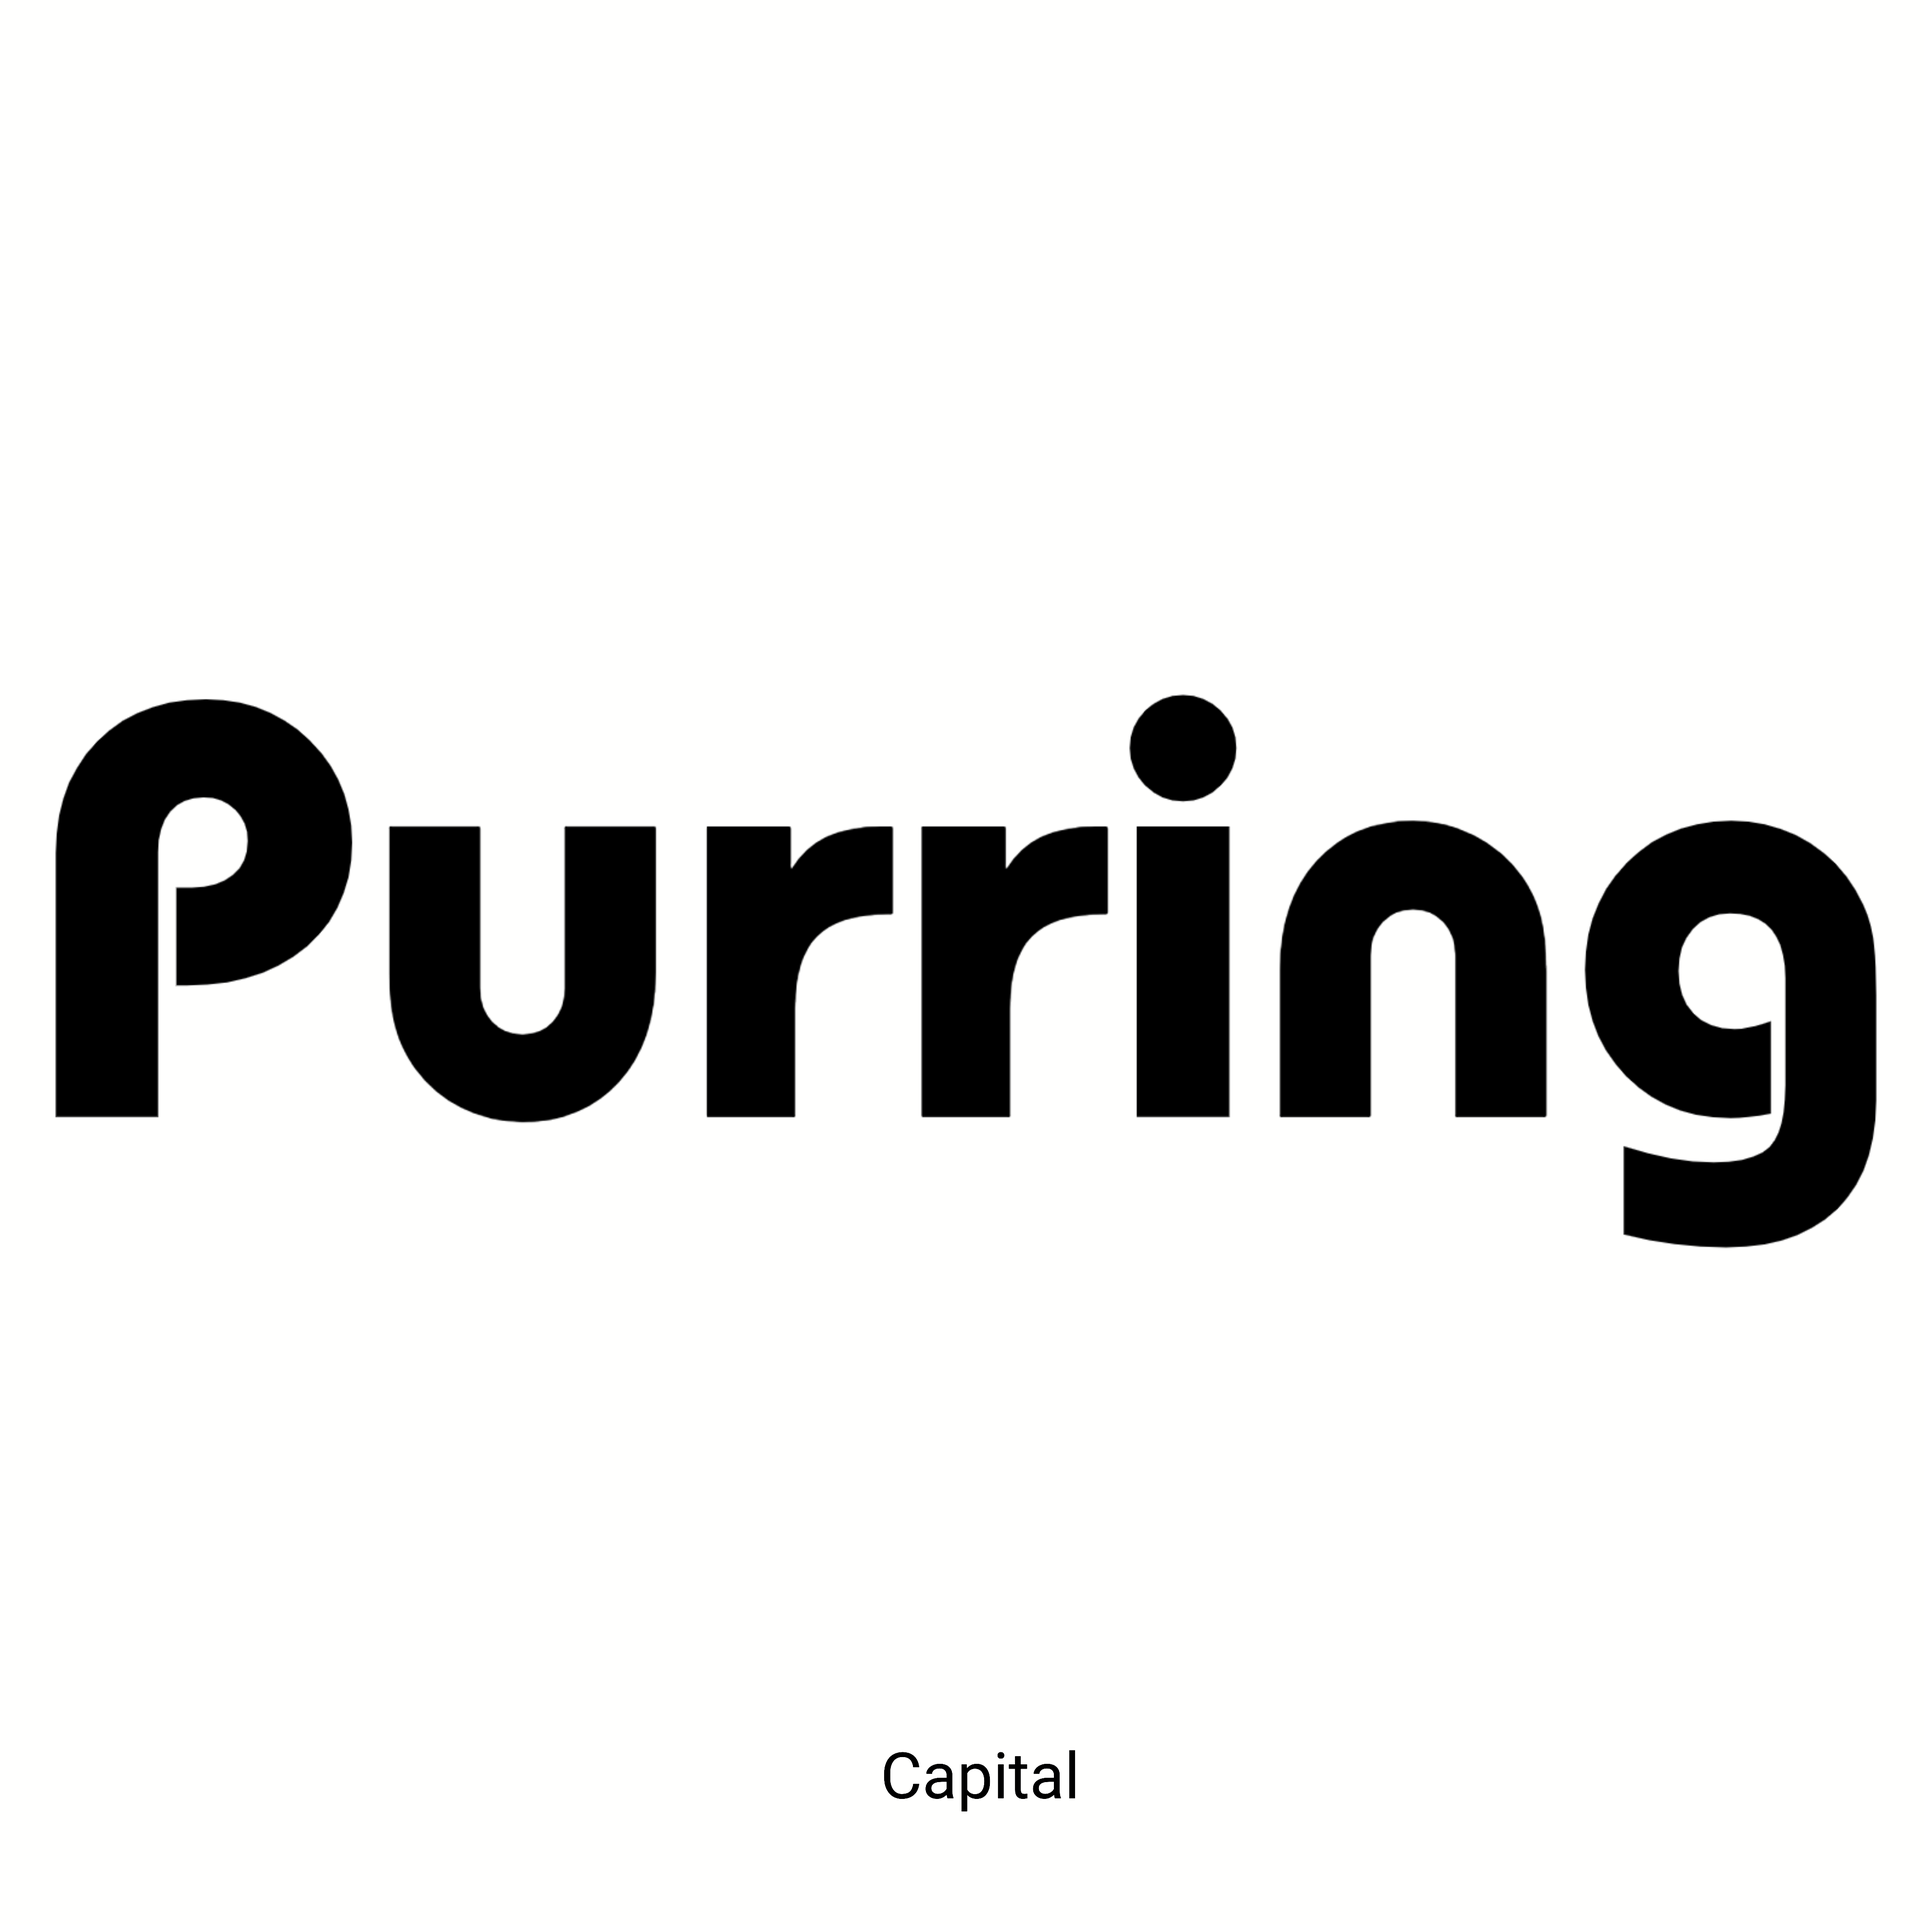
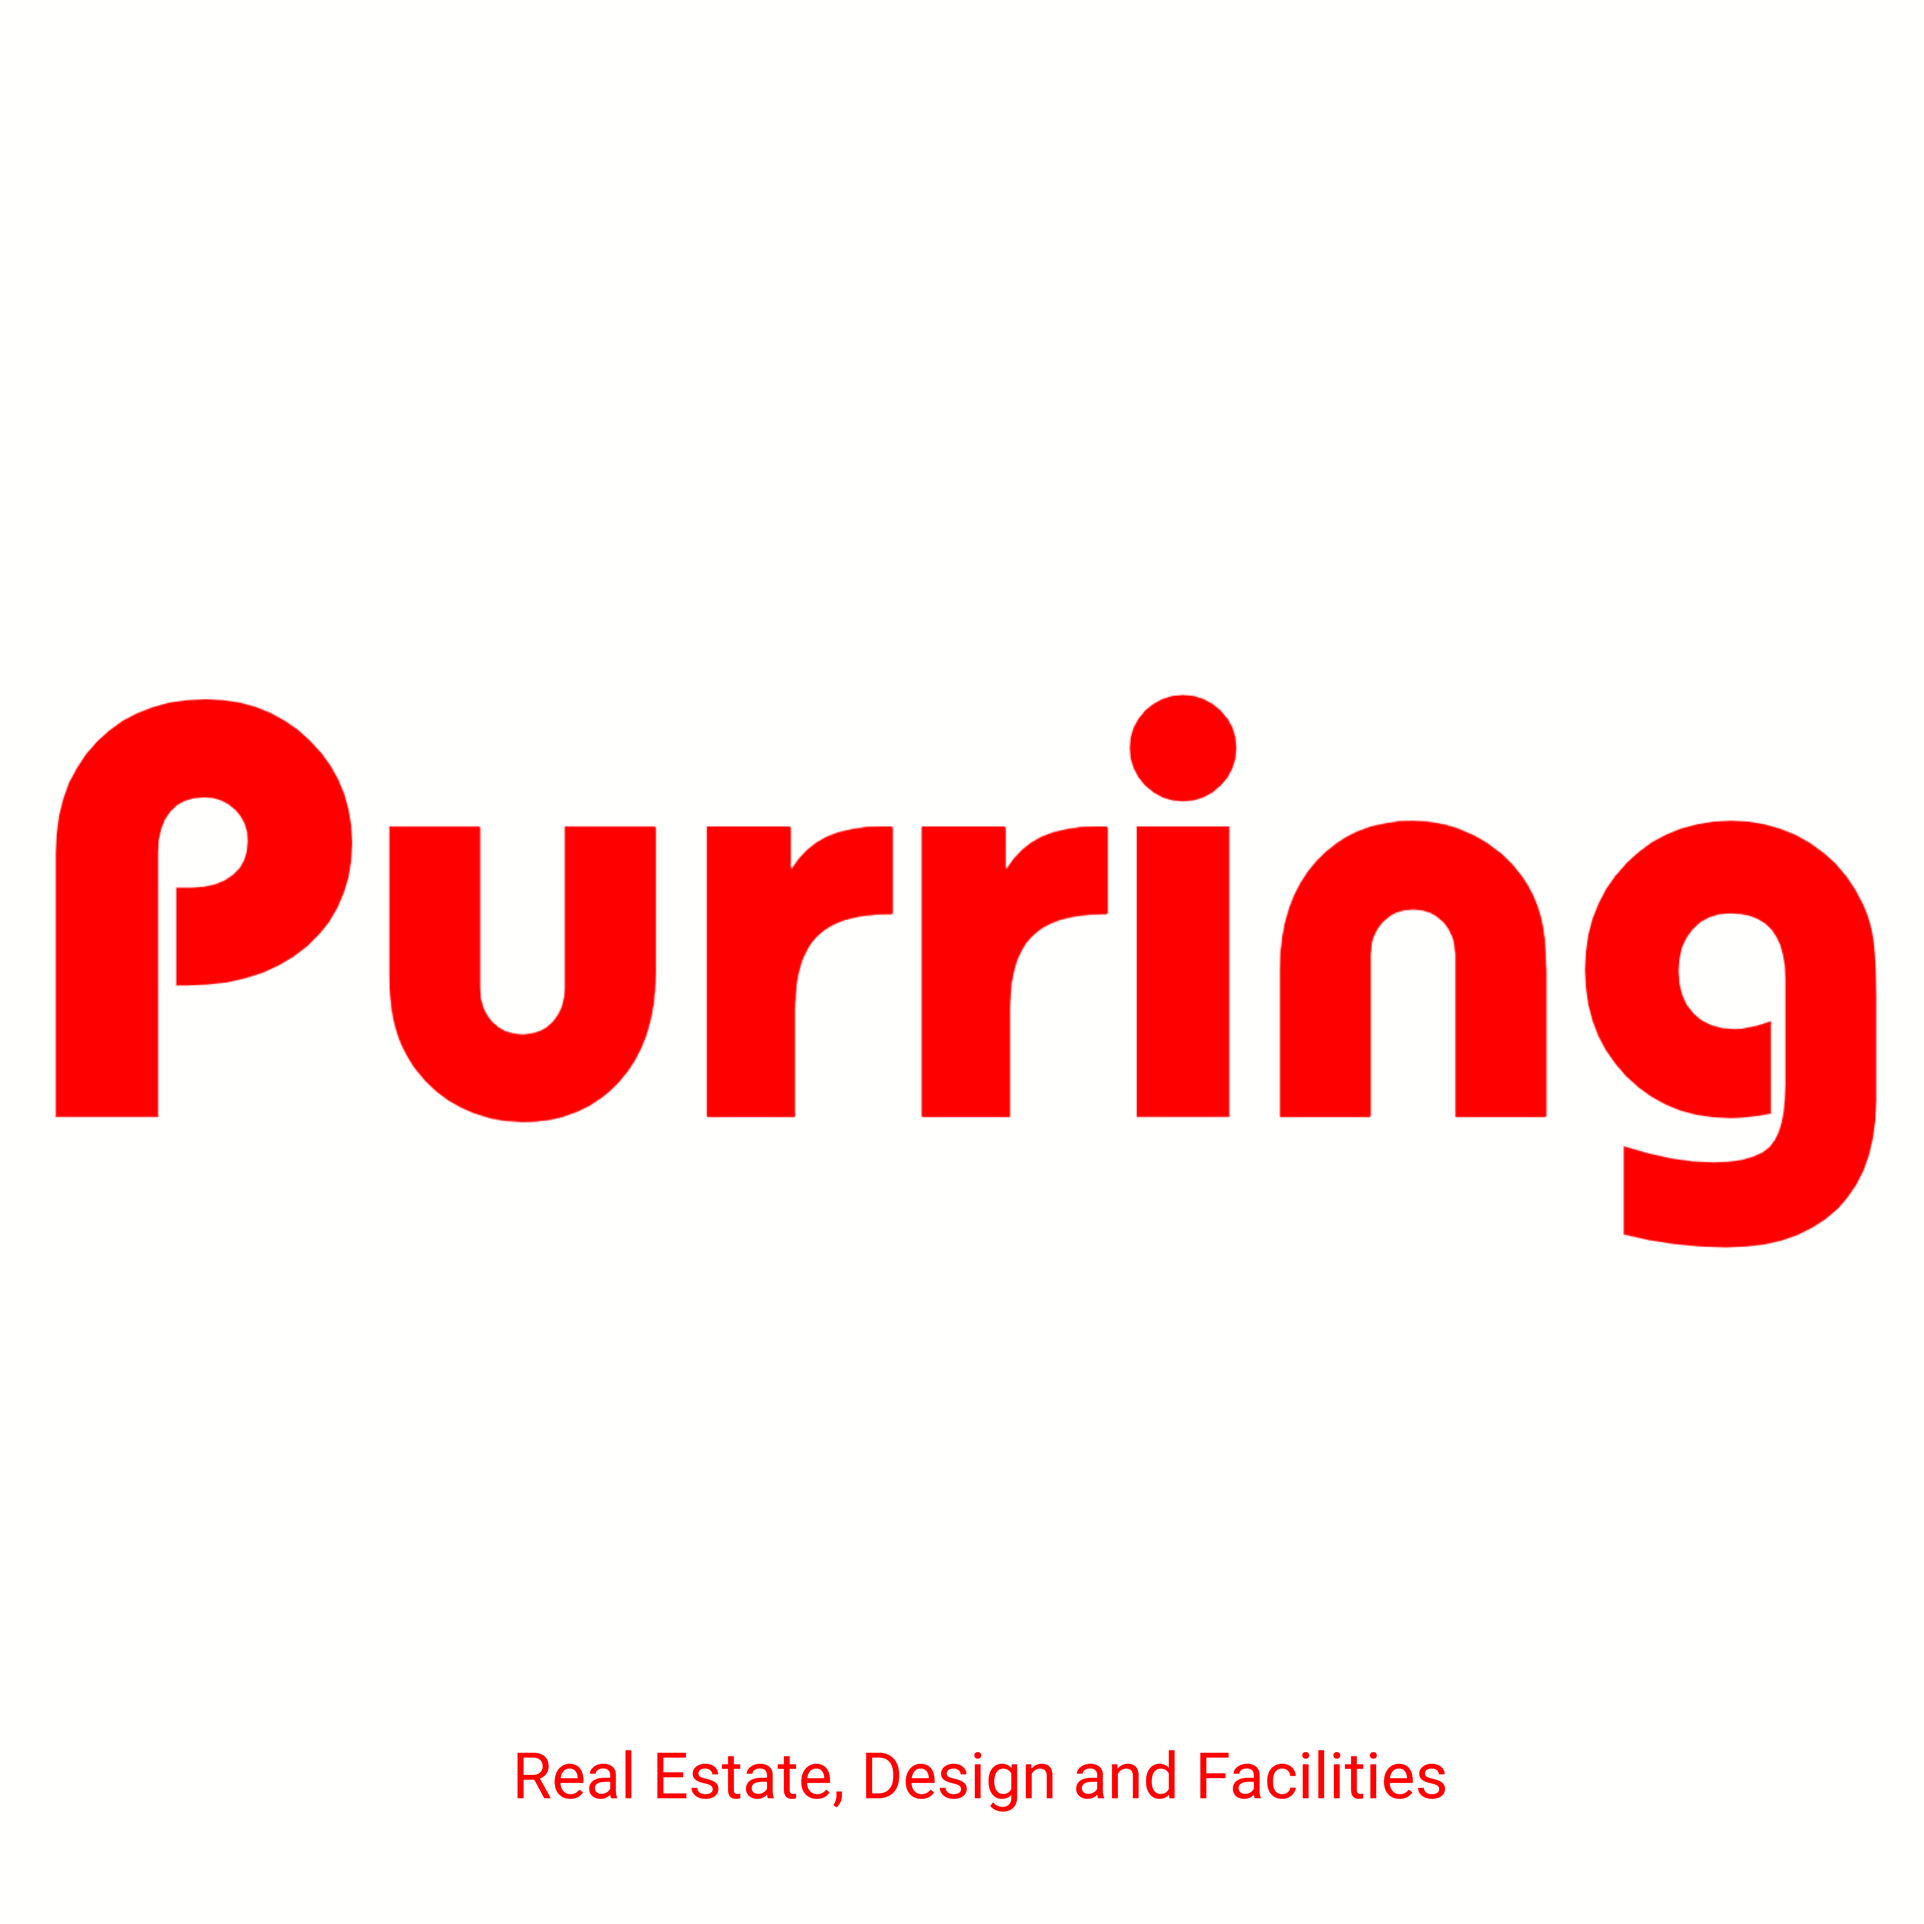
Progressive Changes

Changed region(s): [[0.0312, 0.3438, 1.0, 0.6562], [0.25, 0.9062, 0.75, 0.9375]]

diff --git a/src/components/layout/Services.js b/src/components/layout/Services.js
@@ -4,9 +4,9 @@ const Services = () => {
   return (
     <Fragment>
       <section className='testiomonial'>
-        <h1>Our Strategies</h1>
+        <h1>Services</h1>
         <h1 style={{ color: 'red', fontSize: '1.25rem' }}>
-          Core - Satellite
+          Real Estate
         </h1>
         <p>
           We diversify our investment portfolios all across conservative through
@@ -71,7 +71,72 @@ const Services = () => {
 
       <section className='testiomonial'>
         <h1 style={{ color: 'red', fontSize: '1.25rem' }}>
-          Dollar - Cost Averaging
+          Designs
+        </h1>
+        <p>
+          Consistency and great timing shape how we build our vision, culture
+          and portfolios. We have goals, through which we meet by best
+          strategies and intelligences.
+        </p>
+
+        <section className='row'>
+          <section className='testimonial-col' id='testimonial-col'>
+            <i class='fa fa-shopping-basket' id='set' aria-hidden='true' />
+            <section>
+              <span>Stocks & Bonds</span>
+              <hr />
+              <p>
+                Our expertise carefully analyses stocks and bonds investment
+                opportunities before we move to such deals of interest.
+              </p>
+              <i className='fa fa-star' id='fa fa-star'></i>
+              <i className='fa fa-star' id='fa fa-star'></i>
+              <i className='fa fa-star' id='fa fa-star'></i>
+              <i className='fa fa-star' id='fa fa-star'></i>
+              <i className='fa fa-star' id='fa fa-star'></i>
+            </section>
+          </section>
+
+          <section className='testimonial-col' id='testimonial-col'>
+            <i class='fa fa-address-card-o' id='set' aria-hidden='true' />
+            <section>
+              <span>REITs & Crowdfunding</span>
+              <hr />
+              <p>
+                We stay at par with world emerging tech, climate and business
+                intelligences when it comes to real estate deals.
+              </p>
+              <i className='fa fa-star' id='fa fa-star'></i>
+              <i className='fa fa-star' id='fa fa-star'></i>
+              <i className='fa fa-star' id='fa fa-star'></i>
+              <i className='fa fa-star' id='fa fa-star'></i>
+              <i className='fa fa-star' id='fa fa-star'></i>
+            </section>
+          </section>
+
+          <section className='testimonial-col' id='testimonial-col'>
+            <i class='fa fa-signal' id='set' aria-hidden='true' />
+            <section>
+              <span>Crytography</span>
+              <hr />
+              <p>
+                We position, with least portions of our portfolio, to taking
+                best advantages in fungible and non - fungible tokens.
+              </p>
+              <i className='fa fa-star' id='fa fa-star'></i>
+              <i className='fa fa-star' id='fa fa-star'></i>
+              <i className='fa fa-star' id='fa fa-star'></i>
+              <i className='fa fa-star' id='fa fa-star'></i>
+              <i className='fa fa-star' id='fa fa-star'></i>
+            </section>
+          </section>
+        </section>
+      </section>
+      <hr/>
+
+      <section className='testiomonial'>
+        <h1 style={{ color: 'red', fontSize: '1.25rem' }}>
+          Facilities
         </h1>
         <p>
           Consistency and great timing shape how we build our vision, culture

diff --git a/src/components/layout/HeroPage.js b/src/components/layout/HeroPage.js
@@ -6,12 +6,12 @@ const HeroPage = () => {
     <Fragment>
       <section className='text-box' id='text-box'>
         <h1>
-          Outstanding Investment{' '}
-          <span style={{ color: '#f44336' }}>Intelligence and Strategy</span>
+          Accelerating Excellence{' '}
+          <span style={{ color: '#f44336' }}>with Trust</span>
         </h1>
         <p>
-          We are committed in leading financial freedom to
-          exciting realities.
+          Accelerating developmental excellence in real estate, exterior -
+          interior designs, and facility and property management.
         </p>
         <Link to='/About' className='hero-btn' id='hero-btn'>
           Visit Us To Know More

diff --git a/public/index.html b/public/index.html
@@ -28,7 +28,7 @@
 
     <link rel="manifest" href="%PUBLIC_URL%/manifest.json" />
 
-    <title>Purring ~ Capital</title>
+    <title>Purring ~ Real Estate, Design and Facilities</title>
   </head>
   <body>
     <noscript>You need to enable JavaScript to run this app.</noscript>
